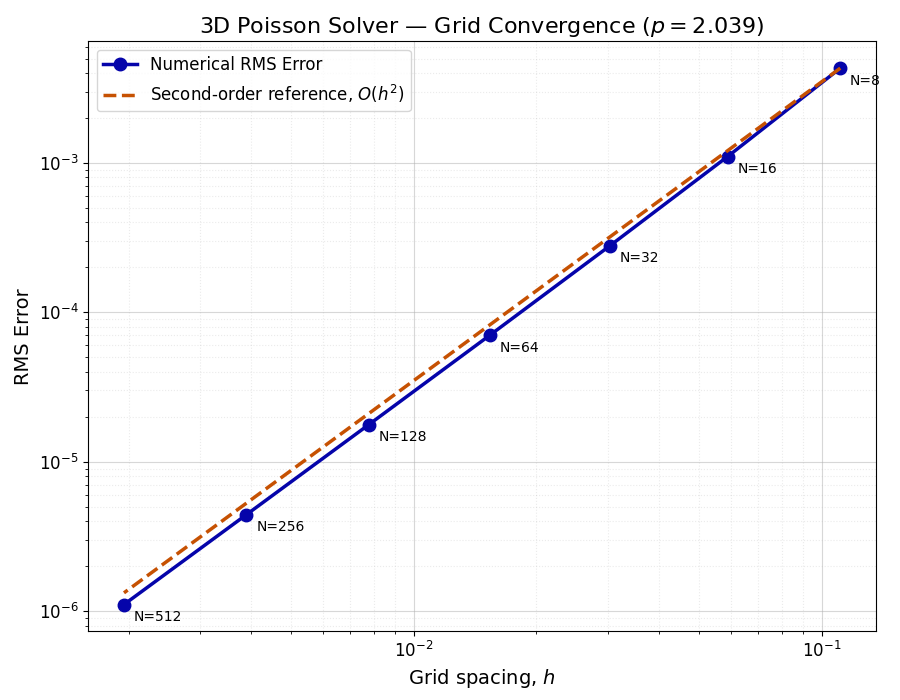
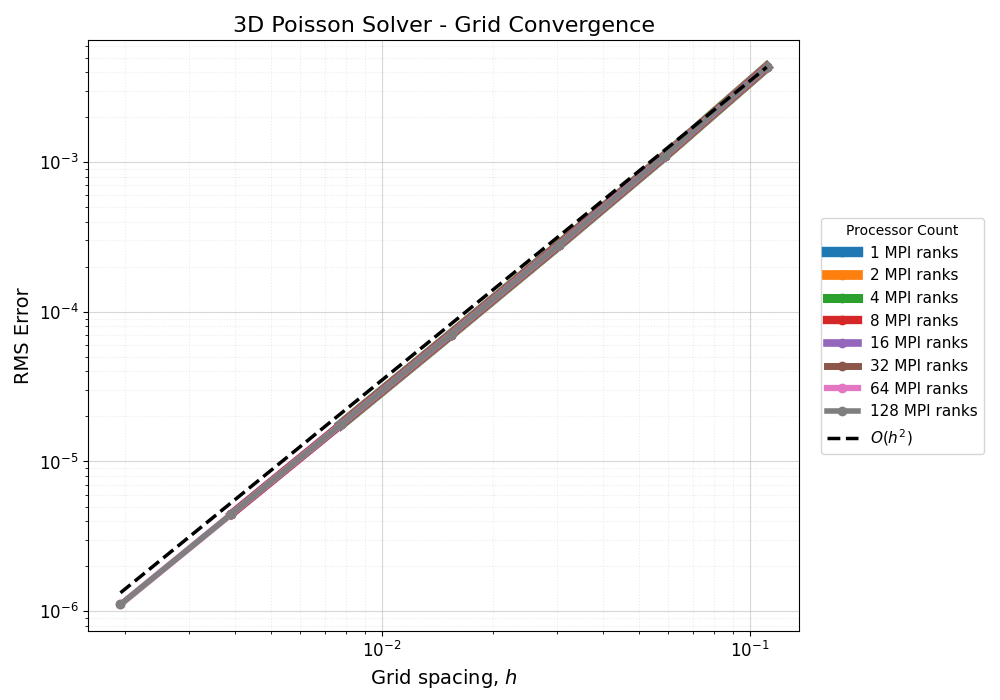
Images 2

diff --git a/Project_1/results/FromCluster/viz.py b/Project_1/results/FromCluster/viz.py
@@ -53,119 +53,88 @@ print(f"Loaded {len(N)} simulations")
 print("Grid resolutions:", np.unique(N))
 print("MPI ranks:", np.unique(ranks))
 print("Statuses:", np.unique(status))
-
-
 # ============================================================
-# Grid Convergence Study
+# Grid Convergence - Multiple MPI Rank Counts
 # ============================================================
 
-# Only include successful simulations
-mask = (status == "ok")
+fig, ax = plt.subplots(figsize=(10, 7))
 
-# Create a dataframe with valid results
-convergence_data = pd.DataFrame({
-    "N": N[mask],
-    "h": h[mask],
-    "rms_error": rms_error[mask]
-})
+rank_counts = np.unique(ranks[status == "ok"])
 
-# Average RMS error across MPI decompositions
-# (These should be nearly identical)
-convergence = (
-    convergence_data
-    .groupby("N", as_index=False)
-    .agg({
-        "h": "mean",
-        "rms_error": "mean"
+colors = plt.get_cmap("tab10")
+
+for idx, P in enumerate(rank_counts):
+
+    mask = (ranks == P) & (status == "ok")
+
+    # Multiple decompositions may exist for the same N and P
+    # Average their RMS errors
+    subset = pd.DataFrame({
+        "N": N[mask],
+        "h": h[mask],
+        "error": rms_error[mask]
     })
-    .sort_values("h", ascending=False)
-)
 
-h_conv = convergence["h"].to_numpy()
-error_conv = convergence["rms_error"].to_numpy()
-N_conv = convergence["N"].to_numpy()
-
-# ============================================================
-# Calculate Observed Convergence Order
-# ============================================================
-
-orders = np.log(error_conv[:-1] / error_conv[1:]) / \
-         np.log(h_conv[:-1] / h_conv[1:])
-
-# Overall convergence order
-p = np.polyfit(np.log(h_conv), np.log(error_conv), 1)[0]
-
-print("\nGrid Convergence Results")
-print("------------------------------------------------")
-print(f"{'N':>8} {'h':>14} {'RMS Error':>16} {'Order':>10}")
-
-for i in range(len(N_conv)):
-    order_str = f"{orders[i-1]:.4f}" if i > 0 else "---"
-
-    print(
-        f"{N_conv[i]:8d} "
-        f"{h_conv[i]:14.6e} "
-        f"{error_conv[i]:16.6e} "
-        f"{order_str:>10}"
+    convergence = (
+        subset.groupby("N", as_index=False)
+        .agg({"h": "mean", "error": "mean"})
+        .sort_values("h", ascending=False)
     )
 
-print("------------------------------------------------")
-print(f"Overall observed convergence order: {p:.4f}")
+    if convergence.empty:
+        continue
+    linewidth_value=7.5 - 0.5 * idx
+
+    ax.loglog(
+        convergence["h"],
+        convergence["error"],
+        marker="o",
+        linestyle="-",
+        linewidth=linewidth_value,
+        markersize=6,
+        color=colors(idx % 10),
+        label=f"{P} MPI ranks"
+    )
 
 # ============================================================
-# Second-Order Reference Line
+# Second-Order Reference
 # ============================================================
 
-# Anchor reference line at coarsest resolution
-reference = error_conv[0] * (h_conv / h_conv[0])**2
+valid = (status == "ok") & (rms_error > 0)
 
-# ============================================================
-# Plot
-# ============================================================
+h_ref = np.sort(np.unique(h[valid]))
 
-fig, ax = plt.subplots(figsize=(9, 7))
+# Anchor reference at the largest grid spacing
+h0 = h_ref[-1]
+e0 = np.mean(rms_error[valid & np.isclose(h, h0)])
+
+reference = e0 * (h_ref / h0)**2
 
 ax.loglog(
-    h_conv,
-    error_conv,
-    "o-",
-    color="xkcd:royal blue",
-    linewidth=2.5,
-    markersize=9,
-    label="Numerical RMS Error"
-)
-
-ax.loglog(
-    h_conv,
+    h_ref,
     reference,
-    "--",
-    color="xkcd:dark orange",
+    "k--",
     linewidth=2.5,
-    label=r"Second-order reference, $O(h^2)$"
+    label=r"$O(h^2)$"
 )
 
-# Label each point with its resolution
-for n, hi, err in zip(N_conv, h_conv, error_conv):
-    ax.annotate(
-        f"N={n}",
-        (hi, err),
-        xytext=(7, -12),
-        textcoords="offset points",
-        fontsize=10
-    )
+# ============================================================
+# Formatting
+# ============================================================
 
 ax.set_xlabel(r"Grid spacing, $h$", fontsize=14)
 ax.set_ylabel(r"RMS Error", fontsize=14)
-
-ax.set_title(
-    rf"3D Poisson Solver — Grid Convergence ($p={p:.3f}$)",
-    fontsize=16
-)
+ax.set_title("3D Poisson Solver - Grid Convergence", fontsize=16)
 
 ax.grid(True, which="major", linestyle="-", alpha=0.5)
 ax.grid(True, which="minor", linestyle=":", alpha=0.25)
 
-ax.legend(fontsize=12)
+ax.legend(
+    loc="center left",
+    bbox_to_anchor=(1.02, 0.5),
+    fontsize=11,
+    title="Processor Count"
+)
 
 ax.tick_params(axis="both", which="major", labelsize=12)
 
